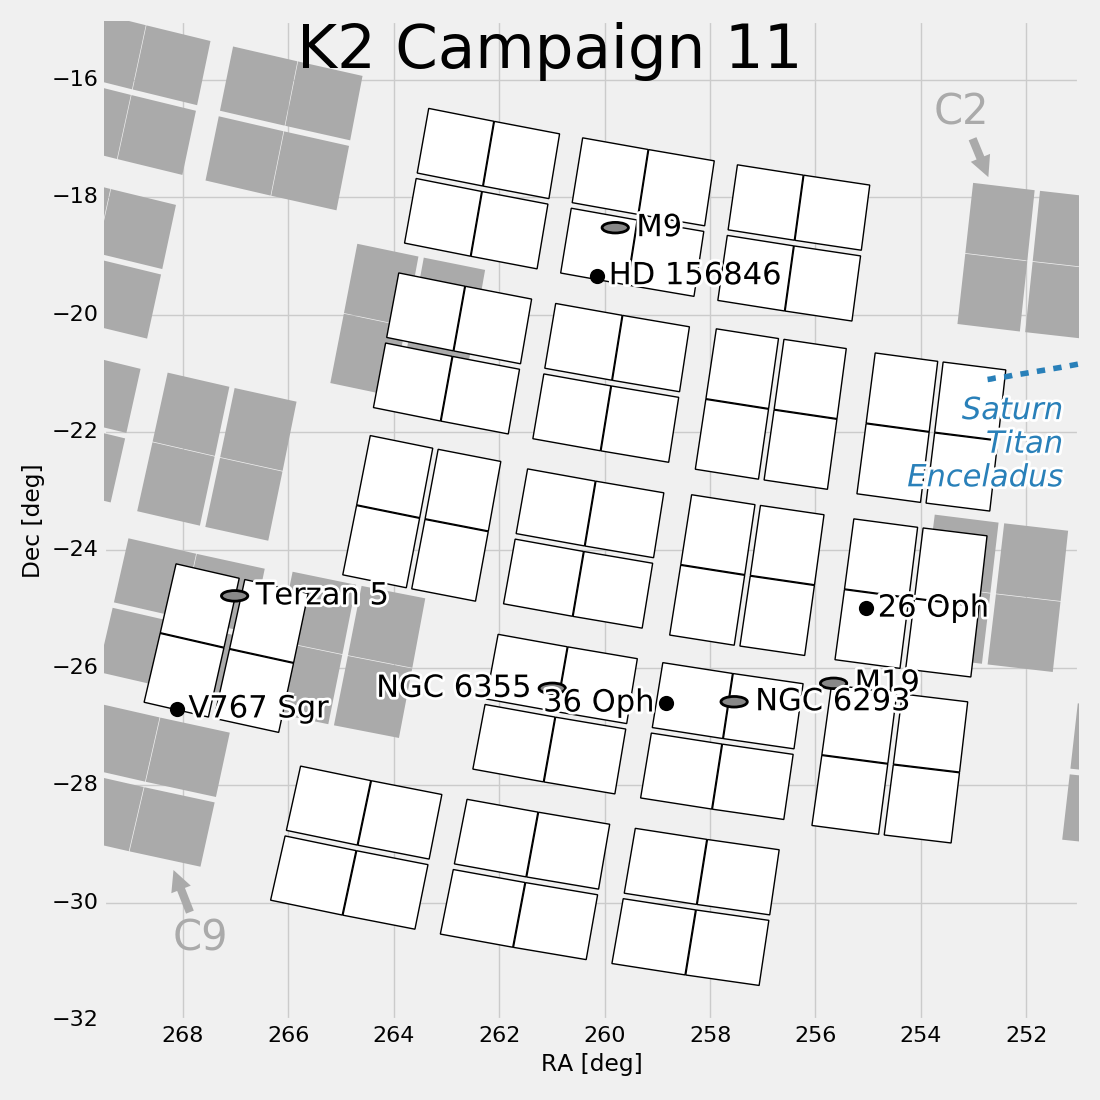
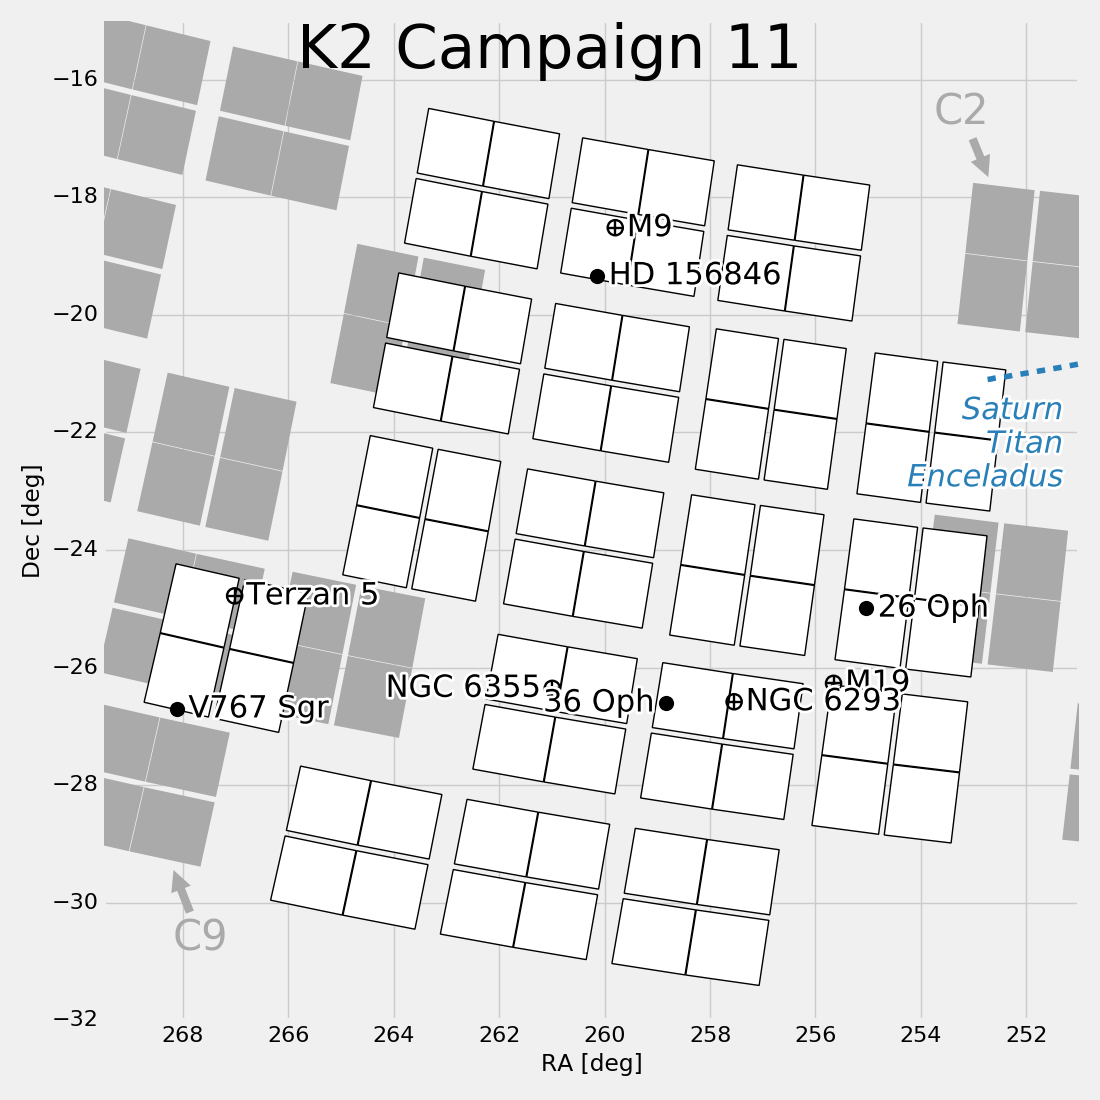
Change symbol for globular clusters

diff --git a/plot-c11.py b/plot-c11.py
@@ -47,11 +47,11 @@ annotate_target(260.14296371, -19.33374974, "HD 156846")
 annotate_target(268.118363, -26.703469, "V767 Sgr")
 annotate_target(255.03962888, -24.98907067, "26 Oph")
 annotate_target(258.83743307, -26.60282143, "36 Oph", ha='right')
-annotate_target(259.79908, -18.51625, "M9", extended=True)
-annotate_target(255.65704, -26.26794, "M19", extended=True)
-annotate_target(257.54342, -26.58172, "NGC 6293", extended=True)
-annotate_target(260.99437, -26.35342, "NGC 6355", ha='right', extended=True)
-annotate_target(267.02083, -24.78000, "Terzan 5", extended=True)
+annotate_target(259.79908, -18.51625, "M9", globular=True)
+annotate_target(255.65704, -26.26794, "M19", globular=True)
+annotate_target(257.54342, -26.58172, "NGC 6293", globular=True)
+annotate_target(260.99437, -26.35342, "NGC 6355", ha='right', globular=True)
+annotate_target(267.02083, -24.78000, "Terzan 5", globular=True)
 
 pl.suptitle('K2 Campaign {}'.format(CAMPAIGN), fontsize=44)
 pl.xlim([269.5, 251.])
